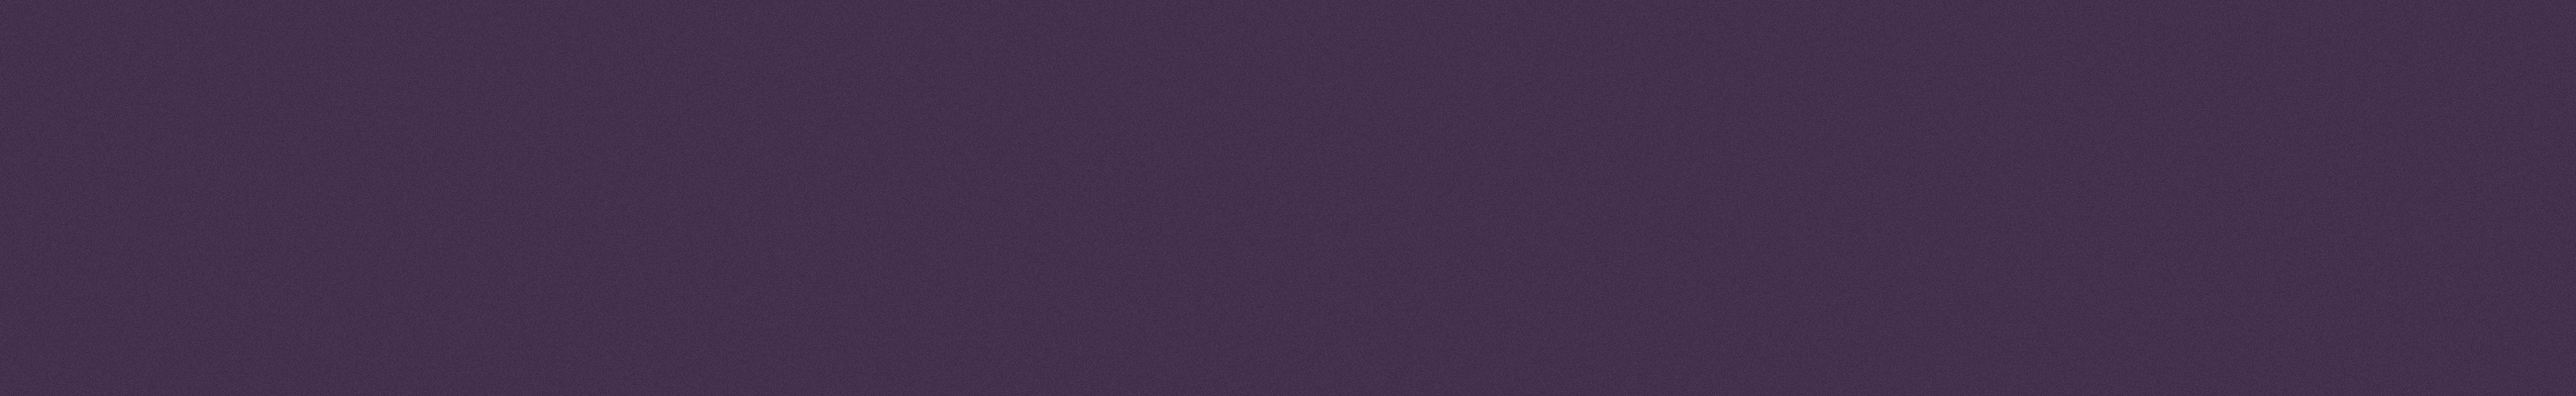
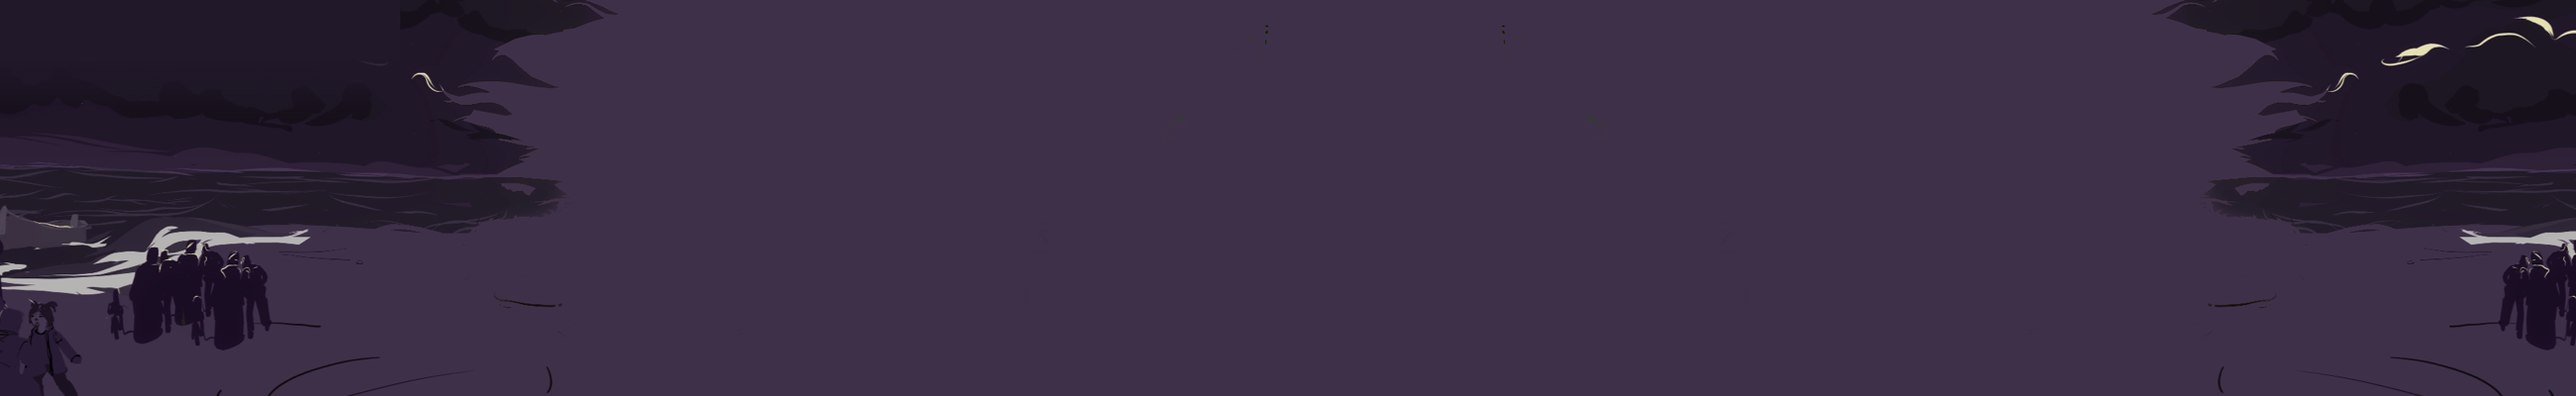
tweaks to sea prayer

diff --git a/embeds/vr-sea-prayer/style.scss b/embeds/vr-sea-prayer/style.scss
@@ -16,36 +16,29 @@ wide: 1300px);
     padding-top: 0;
 }
 
-@mixin overflow-visible($folder-name) {
-    ##{$folder-name} {
-        &.fc-container--thrasher,
-        .fc-container__inner,
-        .fc-slice,
-        .facia-snap {
-            overflow: visible; // overflow-y: visible !important;
-            // overflow-x: hidden !important;
-        }
-    }
-}
-
-@include overflow-visible(close-encounters-header);
 
 #sea-prayer.fc-container {
-
     overflow: hidden;
-    background: #675970; // .facia-snap {
-    //     overflow: hidden;
-    //     @include mq($until: leftCol) {
-    //         padding-left: 0px;
-    //         padding-right: 0px;
-    //     }
-    // }
+    background: #675970; 
+    .facia-snap {
+        overflow: hidden;
+        @include mq($until: leftCol) {
+            padding-left: 0px;
+            padding-right: 0px;
+        }
+    }
 }
 
 
 .vr-sea-prayer__wrapper {
     width: 100%;
-    background: #42304D; // background-image: url('@@assetPath@@/bg.png'); 
+    background: #3F304A;
+    background-image: url('@@assetPath@@/bg.png');
+    background-repeat: no-repeat;
+    background-size: cover;
+    @include mq($until: phablet) {
+        background-image: none;
+    }
 }
 
 #close-encounters-header-inner {
@@ -53,20 +46,20 @@ wide: 1300px);
     height: 190px;
     width: 100%;
     @include mq($until: desktop) {
-        height: 178px;
+        height: 150px;
     }
     @include mq($until: phablet) {
-        height: 308px;
+        height: 300px;
     }
     @include mq($until: mobileLandscape) {
-        height: 306px;
+        height: 290px;
     }
     @include mq($until: mobileSneaky) {
-        height: 286px;
+        height: 280px;
     }
     font-family: 'Guardian Egyptian Web',
     serif;
-    color: #8D8294;
+    color: #C6C1C9;
     .logo {
         position: absolute;
         top: 10px;
@@ -79,9 +72,13 @@ wide: 1300px);
         @include mq($until: phablet) {
             left: 12px;
         }
+
+        @include mq($until: mobileSneaky) {
+            transform: scale(0.70);
+        }
     }
     .subscribe {
-        width: 210px;
+        width: 190px;
         position: absolute;
         left: 980px;
 
@@ -108,12 +105,16 @@ wide: 1300px);
             top: 200px;
             width: 100%;
             transform: scale(1);
+            width: 56%;
+
         }
         @include mq($until: mobileLandscape) {
             top: 183px;
+            width: 80%;
         }
         @include mq($until: mobileSneaky) {
             top: 180px;
+            width: 90%;
         }
         top: 15px; // color: #CC8F79;
         &__headline {
@@ -157,13 +158,13 @@ wide: 1300px);
     }
 
     .visible {
-      opacity: 1!important;
+        opacity: 1!important;
     }
 
     .hidden {
-      opacity: 0;
+        opacity: 0;
     }
-   
+
     .invisible {
         display: none;
         position: absolute;
@@ -177,7 +178,7 @@ wide: 1300px);
         top: 12px;
         left: 260px;
         width: 600px;
-        height: 125px; 
+        height: 125px;
         @include mq($until: wide) {
             left: 180px;
         }
@@ -198,7 +199,7 @@ wide: 1300px);
         }
         @include mq($until: mobileSneaky) {
             left: 9px;
-            top: 50px;
+            top: 45px;
             transform: scale(0.71);
         }
         &__word {
@@ -225,8 +226,11 @@ wide: 1300px);
         .visible {
             .honest {
                 top: 0px;
-                left: 0;
+                left: 70px;
                 animation-delay: 2000ms;
+                @include mq($until: tablet) {
+                    left: 0px;
+                }
             }
             .unguarded {
                 top: 38px;
@@ -235,8 +239,8 @@ wide: 1300px);
                 @include mq($until: desktop) {
                     left: 120px;
                 }
-                @include mq($until: mobileSneaky) {
-                    left: 90px;
+                @include mq($until: tablet) {
+                    left: 0;
                 }
             }
             .conversations {
@@ -246,8 +250,8 @@ wide: 1300px);
                 @include mq($until: desktop) {
                     left: 60px;
                 }
-                @include mq($until: mobileSneaky) {
-                    left: 0px;
+                @include mq($until: tablet) {
+                    left: 0;
                 }
             }
             .about {
@@ -257,8 +261,8 @@ wide: 1300px);
                 @include mq($until: desktop) {
                     left: 120px;
                 }
-                @include mq($until: mobileSneaky) {
-                    left: 90px;
+                @include mq($until: tablet) {
+                    left: 0;
                 }
             }
         }

diff --git a/embeds/vr-sea-prayer/index.html b/embeds/vr-sea-prayer/index.html
@@ -51,7 +51,7 @@
                                     <path d="M2.27435116,18.0961439 C2.27435116,20.9319742 3.56765419,22.7241697 6.50301248,22.7241697 C8.03671123,22.7241697 9.67292692,22.3108672 10.6051497,21.587048 L10.6051497,19.6890775 C10.2176292,19.819428 9.5472139,19.9418081 9.01824599,19.9418081 C7.59014617,19.9418081 7.19354189,19.1704982 7.19354189,17.6556089 L7.19354189,9.52887454 L10.4199055,9.52887454 L10.4199055,6.88400369 L7.19354189,6.88400369 L7.19354189,3.27570111 L2.27435116,3.99171587 L2.27435116,6.88400369 L0,7.32902214 L0,9.52887454 L2.27435116,9.52887454 L2.27435116,18.0961439" id="Fill-15" fill="#D9D5DB" fill-rule="nonzero" mask="url(#mask-8)"></path>
                                 </g>
                             </g>
-                            <path d="M160.867075,9.099631 L162.472957,8.33247232 L162.472957,6.90774908 L153.774428,6.90774908 L153.774428,8.33247232 L155.38031,9.099631 L159.796487,22.2509225 L164.105604,22.2509225 L168.62884,9.099631 L170.234722,8.33247232 L170.234722,6.90774908 L164.346487,6.90774908 L164.346487,8.33247232 L165.952369,9.099631 L163.356193,17.5383764 L163.249134,17.5383764 L160.867075,9.099631 Z M170.69621,7.48311808 L170.69621,8.8804428 L172.355622,9.675 L172.355622,20.0590406 L170.776504,20.8261993 L170.776504,22.2509225 L179.39474,22.2509225 L179.39474,20.8261993 L177.333857,20.0590406 L177.333857,11.5380996 C178.190328,11.1271218 179.314446,10.9901292 180.652681,10.9901292 C181.080916,10.9901292 181.61621,11.0449262 181.910622,11.1271218 L181.910622,6.66116236 C181.750034,6.60636531 181.428857,6.57896679 181.16121,6.57896679 C179.528563,6.57896679 178.190328,7.67490775 177.307093,9.70239852 L177.146504,9.70239852 L177.146504,6.46937269 L176.718269,6.46937269 L170.69621,7.48311808 Z" id="vr" fill="#D9D5DB" fill-rule="nonzero" opacity="0.6"></path>
+                            <path d="M160.867075,9.099631 L162.472957,8.33247232 L162.472957,6.90774908 L153.774428,6.90774908 L153.774428,8.33247232 L155.38031,9.099631 L159.796487,22.2509225 L164.105604,22.2509225 L168.62884,9.099631 L170.234722,8.33247232 L170.234722,6.90774908 L164.346487,6.90774908 L164.346487,8.33247232 L165.952369,9.099631 L163.356193,17.5383764 L163.249134,17.5383764 L160.867075,9.099631 Z M170.69621,7.48311808 L170.69621,8.8804428 L172.355622,9.675 L172.355622,20.0590406 L170.776504,20.8261993 L170.776504,22.2509225 L179.39474,22.2509225 L179.39474,20.8261993 L177.333857,20.0590406 L177.333857,11.5380996 C178.190328,11.1271218 179.314446,10.9901292 180.652681,10.9901292 C181.080916,10.9901292 181.61621,11.0449262 181.910622,11.1271218 L181.910622,6.66116236 C181.750034,6.60636531 181.428857,6.57896679 181.16121,6.57896679 C179.528563,6.57896679 178.190328,7.67490775 177.307093,9.70239852 L177.146504,9.70239852 L177.146504,6.46937269 L176.718269,6.46937269 L170.69621,7.48311808 Z" id="vr" fill="#8D8294" fill-rule="nonzero" opacity="1"></path>
                         </g>
                     </g>
                 </g>
@@ -60,14 +60,14 @@
         <div class='subscribe'>
             <div class='subscribe__headline'>Sea prayer</div>
             <div class='subscribe__strap'>A new virtual reality experience, by award-winning author Khaled Hosseini</div>
-            <a href='#' target='_blank' class='subscribe__option subscribe__itunes' data-link-name="close encounters header : subscribe : itunes">watch now</a>
+            <a href='https://www.theguardian.com/technology/ng-interactive/2016/nov/10/virtual-reality-by-the-guardian#' target='_blank' class='subscribe__option subscribe__itunes' data-link-name="close encounters header : subscribe : itunes">watch now</a>
         </div>
         <div class='description'>
             <div class="hidden" data-scroll="offset(0,80px) once">
                 <div class='description__word honest full-tone'>All I can think tonight</div>
                 <div class='description__word unguarded mid-tone'>is how deep the sea,</div>
-                <div class='description__word conversations light-tone'>and how vast,</div>
-                <div class='description__word about mid-tone'>how indifferent.</div>
+                <div class='description__word conversations mid-tone'>and how vast,</div>
+                <div class='description__word about full-tone'>how indifferent.</div>
             </div>
         </div>
     </div>
